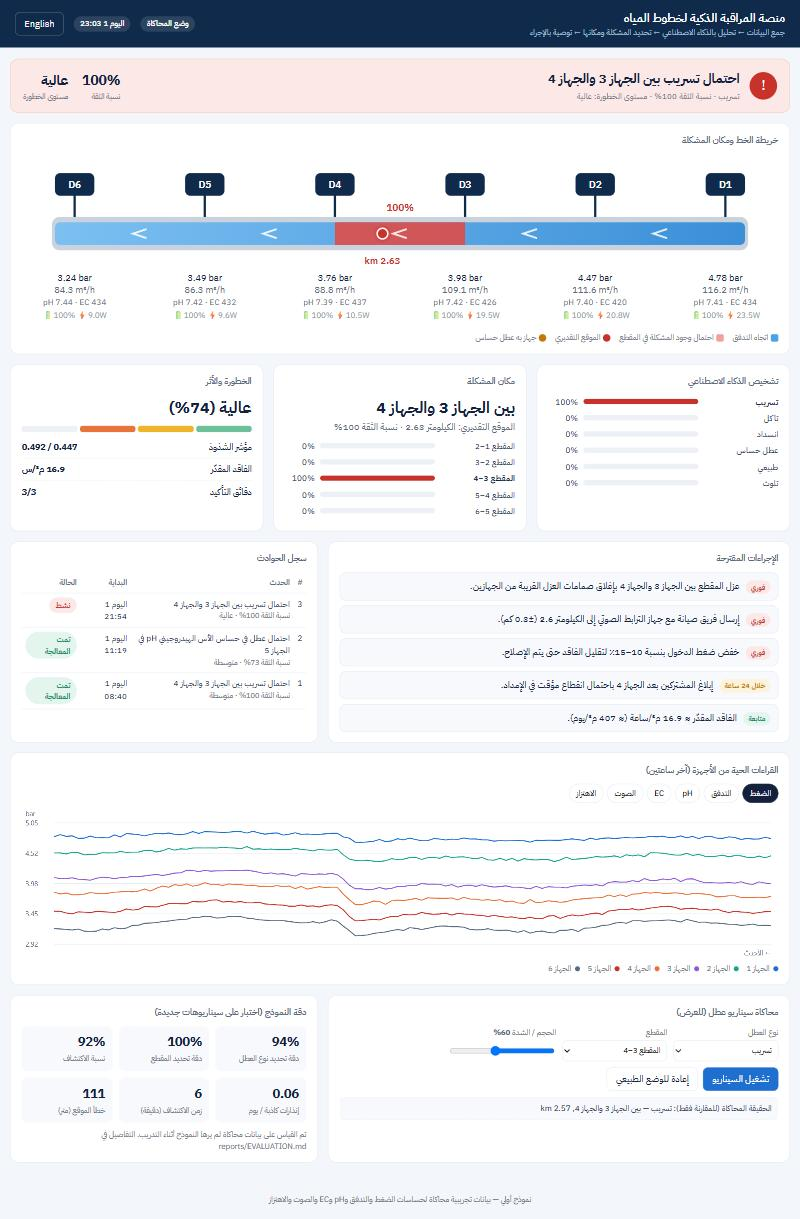
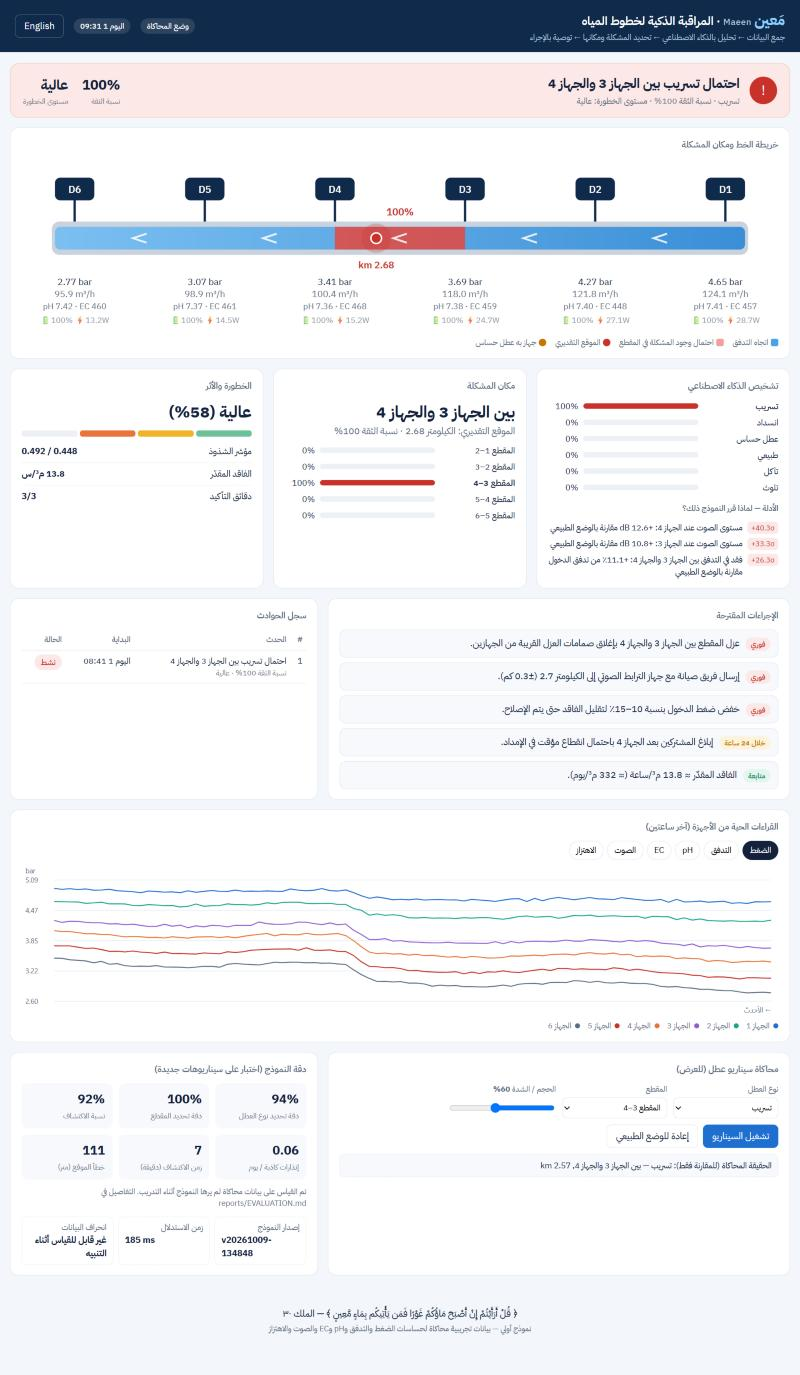
evaluation report for model v20261009-134848, new dashboard screenshot

diff --git a/app/static/index.html b/app/static/index.html
@@ -26,7 +26,7 @@
   .ev-title { font-size: 12.5px; color: var(--muted); margin-top: 14px; font-weight: 600; }
   .health { display: grid; grid-template-columns: repeat(auto-fit, minmax(140px, 1fr)); gap: 8px; margin-top: 12px; font-size: 13px; }
   .health div { border: 1px dashed var(--line); border-radius: 8px; padding: 7px 10px; }
-  .health b { display: block; font-size: 14px; }
+  .health b { display: block; font-size: 14px; unicode-bidi: plaintext; text-align: start; }
   footer .verse { display: block; font-size: 15px; color: var(--ink); margin-bottom: 4px; }
   header .sub { color: #a9c1de; font-size: 13px; }
   header .spacer { flex: 1; }

diff --git a/reports/EVALUATION.md b/reports/EVALUATION.md
@@ -1,6 +1,8 @@
 # Evaluation report
 
-Generated by `python -m smartpipe.evaluate` on simulated data never seen in training (3000 test windows, 1500 noisy windows, 200 streaming fault runs, 16.9 days of normal streaming).
+Model **v20261009-134848** (config `default`, commit `1a7ff0c`, 165 features, trained on 9000 windows).
+
+Generated by `python -m maeen.evaluate` on simulated data never seen in training (3000 test windows, 1500 noisy windows, 200 streaming fault runs, 16.9 days of normal streaming).
 
 ## Headline numbers
 
@@ -55,5 +57,38 @@ False alarms: **0.06 per day** of normal operation.
 | contamination | 40 | 100.0% | 6 min | 87.5% | 90.0% |
 | corrosion | 40 | 100.0% | 11 min | 100.0% | 100.0% |
 | sensor_fault | 40 | 95.0% | 10 min | 100.0% | 92.1% |
+
+## Baselines: what the AI adds
+
+Same test windows, three approaches. Threshold rules are calibrated on normal data (99.5th percentile).
+
+| Approach | Fault-type accuracy | Macro-F1 | Detection | False alarms | Correct segment |
+|---|---|---|---|---|---|
+| Threshold rules (classic SCADA) | 78.5% | 76.9% | 95.7% | 28.8% | 99.9% |
+| Gradient boosting on raw readings | 88.6% | 86.0% | 84.7% | 0.9% | 98.8% |
+| Maeen (physics features + ML) | 94.1% | 93.6% | 92.0% | 0.3% | 99.9% |
+
+## What the model relies on
+
+Permutation importance of the fault classifier, summed per feature family:
+
+| Feature family | Importance |
+|---|---|
+| `dec` | 0.118 |
+| `dph` | 0.055 |
+| `acoustic` | 0.048 |
+| `delivery_ratio` | 0.036 |
+| `p_resid` | 0.025 |
+| `flow_loss` | 0.019 |
+| `rel_noise` | 0.018 |
+| `friction` | 0.012 |
+| `slope_pressure` | 0.005 |
+| `slope_ec` | 0.004 |
+
+![feature importance](feature_importance.png)
+
+## Inference latency
+
+Single 30-minute window, all five models + evidence + recommendations: **152 ms** median (165 ms p95). Batched: 0.55 ms per window.
 
 > All results are on **simulated** data. They show the method works and where it struggles (very small leaks, slow corrosion); real-world accuracy has to be re-measured once field data is available.

diff --git a/README.md b/README.md
@@ -14,7 +14,7 @@ It turns raw in-pipe sensor streams into decisions: *what* is wrong, *where*, *h
 
 ![Maeen dashboard](docs/dashboard.jpg)
 
-*A leak injected at km 2.57 is reported as "احتمال تسريب بين الجهاز 3 والجهاز 4" ("possible leak between Device 3 and Device 4") at an estimated km 2.63, with 100% confidence and high severity. The alert comes with the evidence behind it, prioritised actions and an estimated loss.*
+*A leak injected at km 2.57 is reported as "احتمال تسريب بين الجهاز 3 والجهاز 4" ("possible leak between Device 3 and Device 4") at an estimated km 2.68, with 100% confidence and high severity. The alert comes with the evidence behind it, prioritised actions and an estimated loss.*
 
 ---
 
